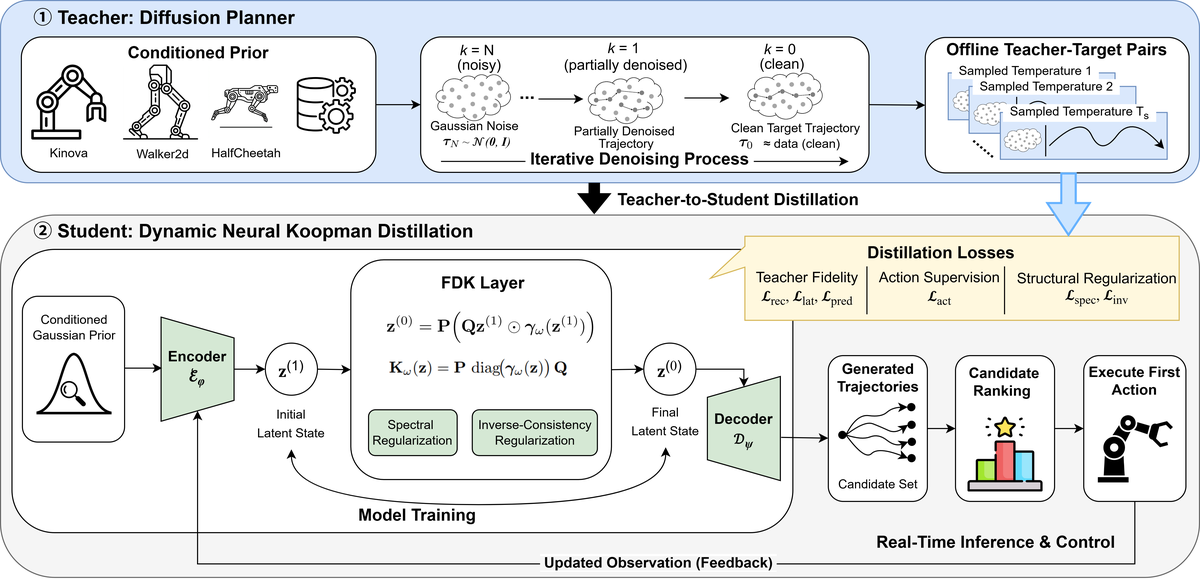
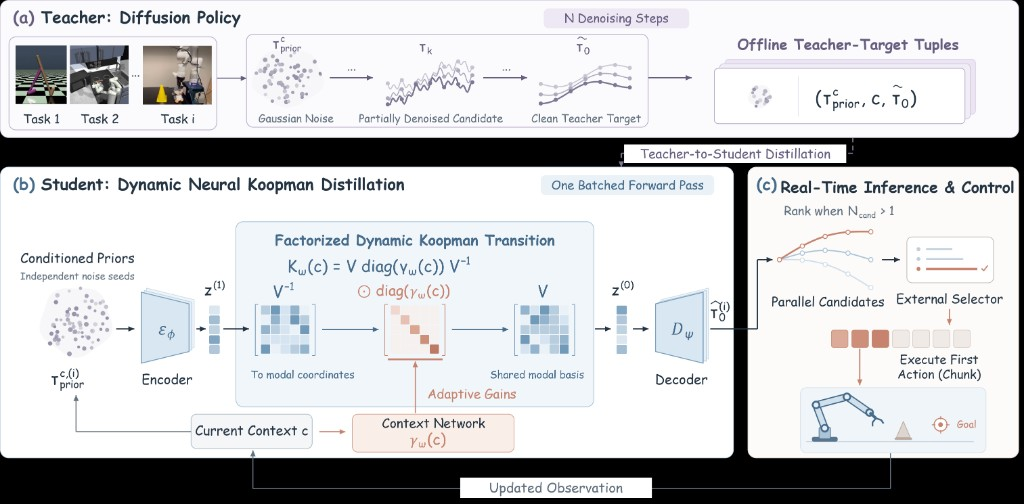
Update DNKD featured figure and cite arXiv:2605.24924.

diff --git a/index.html b/index.html
@@ -1112,11 +1112,11 @@
 
 <article class="rh-work rh-work--physics">
   <div class="rh-work-fig">
-    <a href="https://fdkoopman.github.io/" target="_blank" rel="noopener"><img src="/img/featured/dnkd.png" alt="Dynamic Neural Koopman Distillation"></a>
+    <a href="https://fdkoopman.github.io/" target="_blank" rel="noopener"><img src="/img/featured/dnkd.png?v=2" alt="Dynamic Neural Koopman Distillation"></a>
   </div>
   <div>
     <h3>Dynamic Neural Koopman Distillation for Real-Time Robot Control Using Diffusion Models</h3>
-    <p class="rh-work-meta"><strong>Lei Zheng*</strong>, P. Yu, Z. Peng, C. Liu, and A. Lederer · <em>Under review at IEEE Robotics and Automation Letters</em>, 2026</p>
+    <p class="rh-work-meta"><strong>Lei Zheng*</strong>, P. Yu, Z. Peng, C. Liu, and A. Lederer · Cite as: <a href="https://doi.org/10.48550/arXiv.2605.24924" target="_blank" rel="noopener"><em>arXiv:2605.24924 [cs.RO]</em></a></p>
     <p>Distills diffusion robot policies into a Koopman-inspired latent dynamics model for millisecond-level real-time control.</p>
     <p class="entry-buttons">
       <a class="pdf-button" href="https://arxiv.org/pdf/2605.24924" target="_blank" rel="noopener">PDF</a>

diff --git a/publication/index.html b/publication/index.html
@@ -483,7 +483,7 @@
 <div class="entry entry-journal">
   <strong>[J14] Dynamic Neural Koopman Distillation for Real-Time Robot Control Using Diffusion Models</strong><br />
   <strong>Lei Zheng*</strong>, P. Yu, Z. Peng, C. Liu, and A. Lederer<br />
-  <em>Under review at IEEE Robotics and Automation Letters</em>, 2026<br />
+  Cite as: <a href="https://doi.org/10.48550/arXiv.2605.24924" target="_blank" rel="noopener"><em>arXiv:2605.24924 [cs.RO]</em></a><br />
   <div class="entry-buttons">
     <a class="pdf-button" href="https://arxiv.org/pdf/2605.24924" target="_blank" rel="noopener">PDF</a>
     <a class="pdf-button" href="https://arxiv.org/abs/2605.24924" target="_blank" rel="noopener">arXiv</a>
